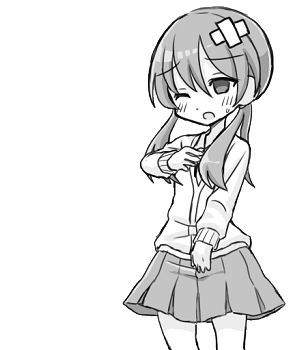
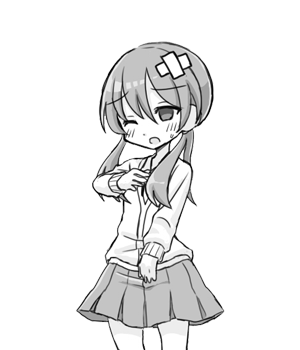
アニメーション実装

Changed region(s): [[0.24, 0.0, 0.96, 1.0]]

diff --git a/STORY/js/game.js b/STORY/js/game.js
@@ -376,6 +376,10 @@ var CookieCheck;
 //3要素の配列。0番目に『文全体のローマ字』、 1番目に『ひらがなを単語毎に配列に入れたもの』、 2番目に『ローマ字を単語毎に配列に入れたもの』が入る
 var worddata
 
+//【MRP】アニメーション変数宣言
+var right_img_lock;
+var animation_random_state_number;
+
 window.onload = function() {
     input_item = document.getElementById("input_item");
     game_messsage = document.getElementById("game_messsage");
@@ -529,7 +533,6 @@ function nextMessage() {
             img5.style.visibility = "hidden";
             wordArea_hiragana.textContent = "";
             wordArea_jp.textContent = "";
-            gamemain.style.backgroundImage = "";
             messageArea.textContent = "スペースキーでスタート";
             condition.textContent = "クリア条件\n 　スコア１０００以上"
             space_flag = 1;
@@ -688,6 +691,8 @@ function setvar() {
     x = 0;
     flg = 0;
     missCount = 0;
+    right_img_lock = 0;
+    animation_random_state_number = 0;
     score_area.textContent = "0000";
     typeArea.textContent = "";
     typeArea2.textContent = "";
@@ -717,8 +722,7 @@ function onStartButtonClick() {
 
 function space_start() {
     condition.textContent = "";
-    player_img.style.backgroundImage = "url(img/typing/kaede_default.png)";
-    teki_img.style.backgroundImage = "url(img/typing/budou_default.png)";
+    animation(0);
     space_flag = 0;
     startcount--;
     if (startcount == 4) {
@@ -742,6 +746,9 @@ function startTyping() {
     game_messsage.style.visibility = "hidden";
 
     timeLeft = timeLimit;
+
+    
+
     nextWord();
     countDown();
     timer1 = setInterval("countDown()", 1000);
@@ -845,7 +852,7 @@ function moveImg() {
         } else if (x >= 500) {
             gauge = 0;
             skil_gaze.style.width = gauge + "px";
-            player_img.style.backgroundImage = "url(img/typing/kaede_miss.png)";
+            //player_img.style.backgroundImage = "url(img/typing/kaede_miss.png)";
             nextWord();
         }
 
@@ -905,7 +912,11 @@ function moziHenkan(e) {
             audioBad.currentTime = 0;
             audioBad.play();
             missCount++;
-            player_img.style.backgroundImage = "url(img/typing/kaede_miss.png)";
+            animation_random_state_number = 0;
+            if(right_img_lock == 0){
+              animation(5);
+              setTimeout("animation(0)", 300);
+            }
             $('.game_div').css({
                 "border": "3px solid #e24408"
             });
@@ -968,8 +979,6 @@ function hantei() {
         //入力後の文字を表示
         typeArea2.textContent = textColor2;
 
-        player_img.style.backgroundImage = "url(img/typing/kaede_default.png)";
-
         $('.game_div').css({
             "border": "3px solid #ffcf00"
         });
@@ -979,14 +988,20 @@ function hantei() {
         if (gauge == 25) {
             audioSP.currentTime = 0;
             audioSP.play();
-            player_img.style.backgroundImage = "url(img/typing/kaede_atk2.png)";
-            setTimeout("player_img.style.backgroundImage = \"url(img/typing/kaede_default.png)\"", 500);
+            animation_random_state_number++;
+            if(right_img_lock == 0){
+              animation(animation_random_state(animation_random_state_number));
+              setTimeout("animation(0)",1000);
+            }
             timeLeft++;
         } else if (gauge == 50) {
             audioSP.currentTime = 0;
             audioSP.play();
-            player_img.style.backgroundImage = "url(img/typing/kaede_atk3.png)";
-            setTimeout("player_img.style.backgroundImage = \"url(img/typing/kaede_default.png)\"", 500);
+            animation_random_state_number++;
+            if(right_img_lock == 0){
+              animation(animation_random_state(animation_random_state_number));
+              setTimeout("animation(0)",1000);
+            }
             timeLeft++;
         } else if (gauge >= 100) {
             audioSP.currentTime = 0;
@@ -995,6 +1010,11 @@ function hantei() {
             score = score + 500;
             gauge = 0;
             skil_gaze.style.width = gauge + "px";
+            animation_random_state_number++;
+            if(right_img_lock == 0){
+              animation(animation_random_state(animation_random_state_number));
+              setTimeout("animation(0)",1000);
+            }
         }
 
         if (charIndex == wordChars.length) {
@@ -1013,10 +1033,77 @@ function hantei() {
             wordArea_jp.textContent = "　"
             typeArea.textContent = textColor1;
             typeArea2.textContent = textColor2;
-            player_img.style.backgroundImage = "url(img/typing/kaede_atk.png)";
-            setTimeout("player_img.style.backgroundImage = \"url(img/typing/kaede_default.png)\"", 500);
+            if(right_img_lock == 0){
+              animation(animation_random_state(animation_random_state_number));
+              setTimeout("animation(0)",1000);
+            }
             setTimeout("nextWord();", 200);
 
         }
     }
+}
+
+//アニメーション管理用
+//■0:立ち絵
+//■1:攻撃1
+//■2攻撃2
+//■3:攻撃3
+//■4:攻撃4
+//■5:ミス
+//■6:ボーナス1
+//■7:ボーナス2
+//■8:ボーナス3
+function animation(motion_number){
+  switch (motion_number) {
+      case 0:
+        right_img_lock = 0;
+        player_img.className = "kaede_right_img_defalt";
+        teki_img.className = "left_img_default";
+      break;
+      case 1:
+        player_img.className = "kaede_right_img_atk";
+        teki_img.className = "left_img_dmg";
+        right_img_lock = 1;
+      break;
+      case 2:
+        player_img.className = "kaede_right_img_atk2";
+        teki_img.className = "left_img_dmg";
+        right_img_lock = 1;
+      break;
+      case 3:
+        player_img.className = "kaede_right_img_atk3";
+        teki_img.className = "left_img_dmg";
+        right_img_lock = 1;
+      break;
+      case 4:
+        player_img.className = "kaede_right_img_atk4";
+        teki_img.className = "left_img_dmg";
+        right_img_lock = 1;
+      break;
+      case 5:
+        player_img.className = "kaede_right_img_miss";
+        right_img_lock = 1;
+      break;
+      case 6:
+      break;
+      case 7:
+      break;
+      case 8:
+      break;
+    default:
+    break;
+  }
+}
+
+function animation_random_state(state){
+  if(state == 0){
+    var animation_random = Math.floor(Math.random() *2) +1;
+  }else if(state == 1){
+    var animation_random = Math.floor(Math.random() *3) +1;
+  }else if(state == 2){
+    var animation_random = Math.floor(Math.random() *4) +1;
+  }else if(state >= 3){
+    var animation_random = Math.floor(Math.random() *3) +2;
+  }
+  return animation_random;
 }

diff --git a/STORY/css/mrp.css b/STORY/css/mrp.css
@@ -1,0 +1,72 @@
+.kaede_right_img {
+  width: 300px;
+  height: 350px;
+  float: left;
+}
+
+.kaede_right_img_defalt {
+  background: url(../img/typing/kaede_default.png);
+  width: 300px;
+  height: 350px;
+  float: left;
+}
+
+.kaede_right_img_miss {
+  background: url(../img/typing/kaede_miss.png);
+  width: 300px;
+  height: 350px;
+  float: left;
+}
+
+.kaede_right_img_atk {
+  background: url(../img/typing/kaede_atk.png);
+  width: 300px;
+  height: 350px;
+  float: left;
+}
+
+.kaede_right_img_atk2{
+  background: url(../img/typing/kaede-atk2-animation.png);
+  width: 300px;
+  height: 350px;
+  float: left;
+  animation: kaede_atk 1.0s steps(42);
+}
+
+.kaede_right_img_atk3 {
+  background: url(../img/typing/kaede-atk3-animation.png);
+  width: 300px;
+  height: 350px;
+  float: left;
+  animation: kaede_atk 1.0s steps(42);
+}
+
+.kaede_right_img_atk4 {
+  background: url(../img/typing/kaede-atk4-animation.png);
+  width: 300px;
+  height: 350px;
+  float: left;
+  animation: kaede_atk 1.0s steps(42);
+}
+
+@keyframes kaede_atk {
+  to {
+   background-position: -12600px 0;
+  }
+}
+
+
+
+.left_img_default {
+  background: url(../img/typing/budou_default.png);
+  width: 200px;
+  height: 350px;
+  float: left;
+}
+
+.left_img_dmg {
+  background: url(../img/typing/budou_default_dmg.png);
+  width: 200px;
+  height: 350px;
+  float: left;
+}

diff --git a/STORY/index.html b/STORY/index.html
@@ -6,7 +6,8 @@
     <meta http-equiv="imagetoolbar" content="no">
     <script src="https://ajax.googleapis.com/ajax/libs/jquery/1.11.2/jquery.min.js"></script>
     <script type="text/javascript" src="js/game.js"></script>
-    <link rel="stylesheet" type="text/css" href="css/main.css" media="all">
+    <link rel="stylesheet" href="css/main.css" media="all">
+    <link rel="stylesheet" href="css/mrp.css" media="all">
     <script type="text/javascript" src="js/towntypelib.js"></script>
 </head>
 <body>

diff --git a/STORY_animation_debug/js/game.js b/STORY_animation_debug/js/game.js
@@ -667,6 +667,12 @@ function startTyping() {
     game_messsage.style.visibility = "hidden";
 
     timeLeft = timeLimit;
+
+    player_img.className = "right_img img";
+    setTimeout("player_img.className = \"right_img img\";","1000");
+    teki_img.className = "left_img img";
+    setTimeout("player_img.className = \"left_img img\";","1000");
+
     nextWord();
     countDown();
     timer1 = setInterval("countDown()", 1000);

diff --git a/STORY/css/main.css b/STORY/css/main.css
@@ -307,26 +307,14 @@ a {
   background-repeat: no-repeat;
 }
 
-.left_img {
-  width: 200px;
-  height: 350px;
-  float: left;
-}
-
-.left_img img {
+.right_img img {
   width: 100px;
   height: 350px;
   float: left;
   visibility: hidden;
 }
 
-.right_img {
-  width: 300px;
-  height: 350px;
-  float: left;
-}
-
-.right_img img {
+.left_img img {
   width: 100px;
   height: 350px;
   float: left;
